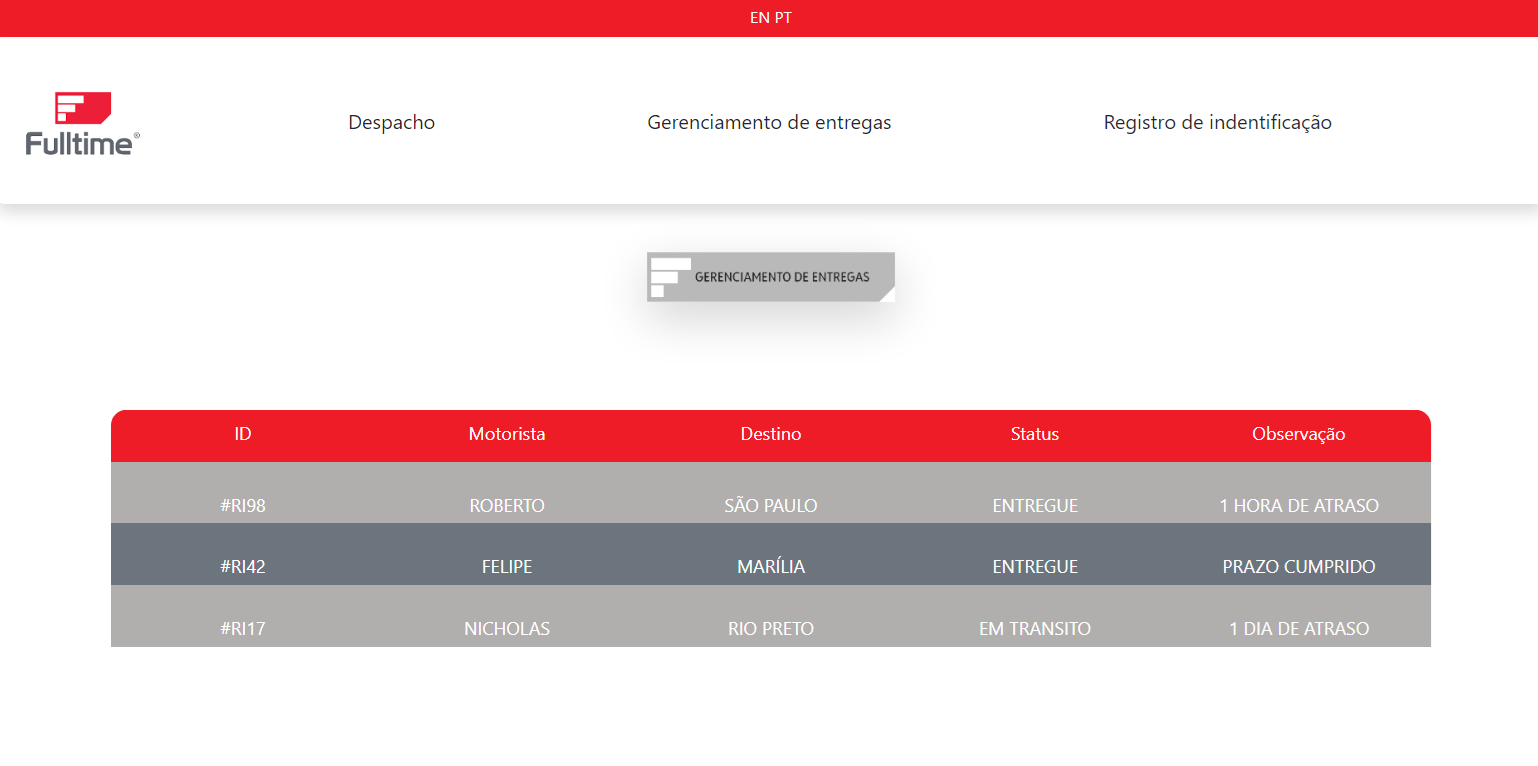
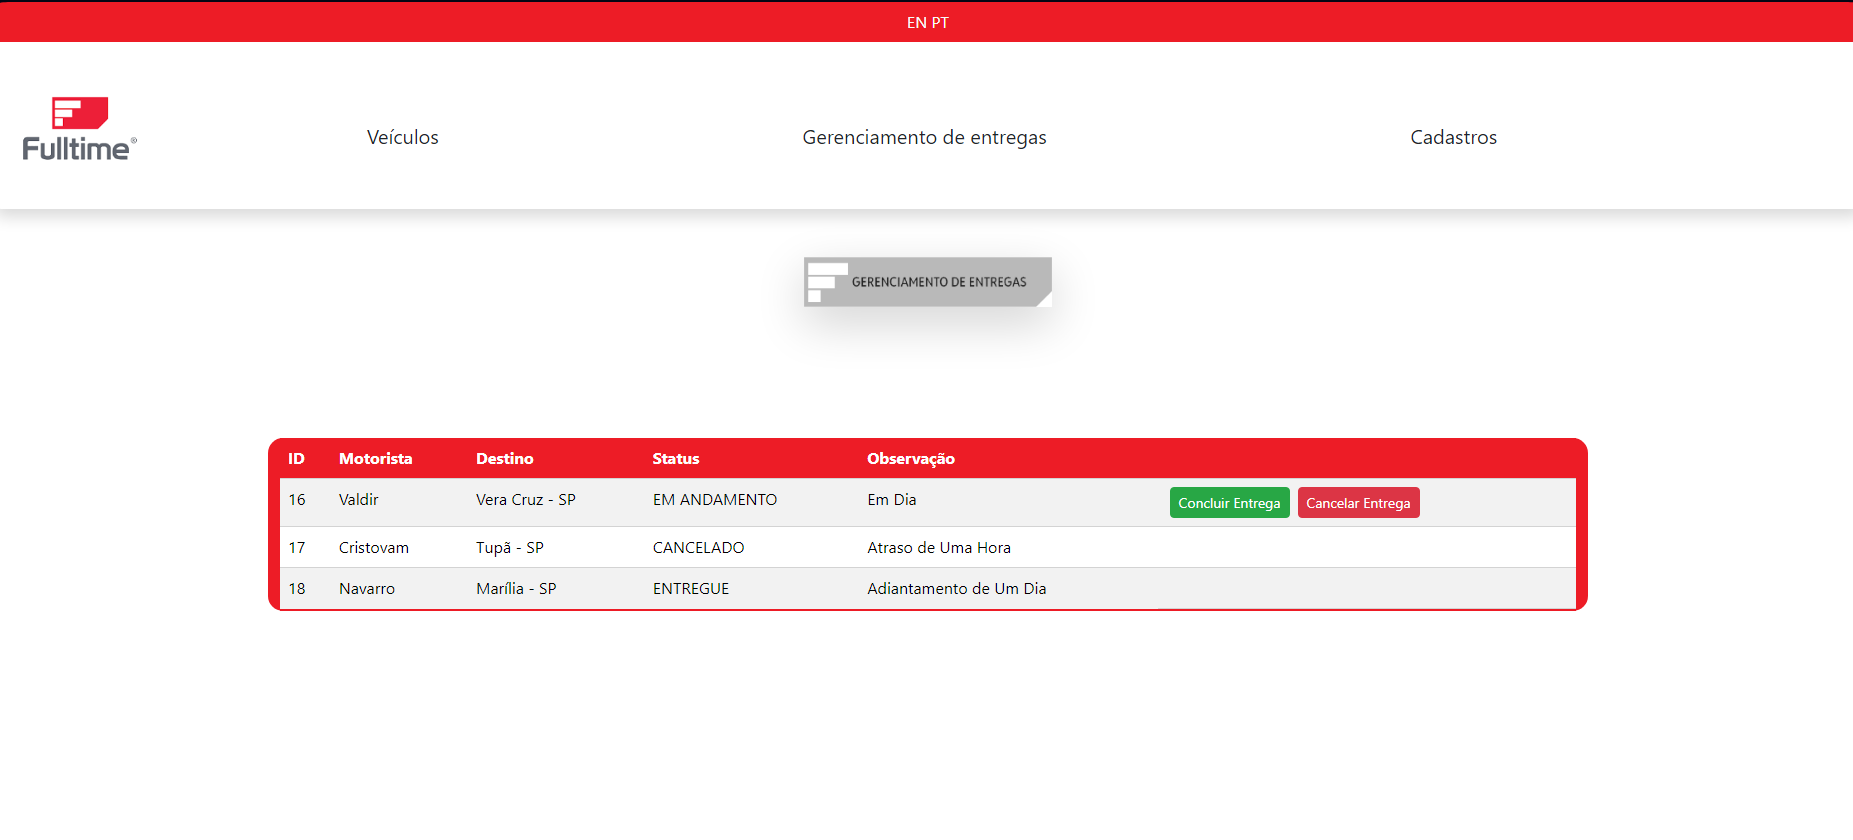
Atualizando README e Cadastro

diff --git a/src/views/CadastroView.vue b/src/views/CadastroView.vue
@@ -17,10 +17,6 @@
                 <input type="text" class="form-control input-border" id="destino1" placeholder="Insira o destino" v-model="entrega.destino" required>
               </div>
               <div class="form-group text-center">
-                <label for="idEntrega1" class="d-block">Status</label>
-                <input type="text" class="form-control input-border" id="idEntrega1" placeholder="Insira o status" v-model="entrega.status" required>
-              </div>
-              <div class="form-group text-center">
                 <label for="observacoes1" class="d-block">Observações</label>
                 <textarea class="form-control input-border" id="observacoes1" rows="3" placeholder="observações" v-model="entrega.observacao" required></textarea>
               </div>
@@ -122,7 +118,7 @@ export default {
       var data = {
         motorista: this.entrega.motorista,
         destino: this.entrega.destino,
-        status: this.entrega.status,
+        status: "EM ANDAMENTO",
         observacao: this.entrega.observacao
       };
 

diff --git a/README.md b/README.md
@@ -15,17 +15,17 @@
 ## Imagens: 
 
 
-### *Gerenciamento de Entrega*
-![Gerenciamento de Entrega](./prints/GerenciamentoDeEntregas.png "Gerenciamento de Entrega")
-#### Mostra o status atual de cada entrega.
+### *Gerenciamento de Entregas*
+![Gerenciamento de Entregas](./prints/GerenciamentoDeEntregas.png "Gerenciamento de Entregas")
+#### Mostra o status atual de cada entrega, com botões para confirmar e cancelar cada entrega.
 
 
-### *Cadastro Do Entregador*
-![Cadastro de Entregador](./prints/RegistroDeEntregador.png "Cadastro de Entregador")
-#### Serve para cadastrar novas entregas com nome do entregador e destino.
+### *Cadastros*
+![Cadastros](./prints/Cadastros.png "Cadastros")
+#### Serve para cadastrar novas entregas e novos veículos.
 
 
 ### *Menu de Despacho*
-![Despacho](./prints/Despacho.png "Despacho")
-#### Mostra todos os veículos disponiveis.
+![Despacho](./prints/Veiculo.png "Veículos")
+#### Mostra todos os veículos disponiveis, com botão para remover o veículo quando não estiver mais disponível.
 
